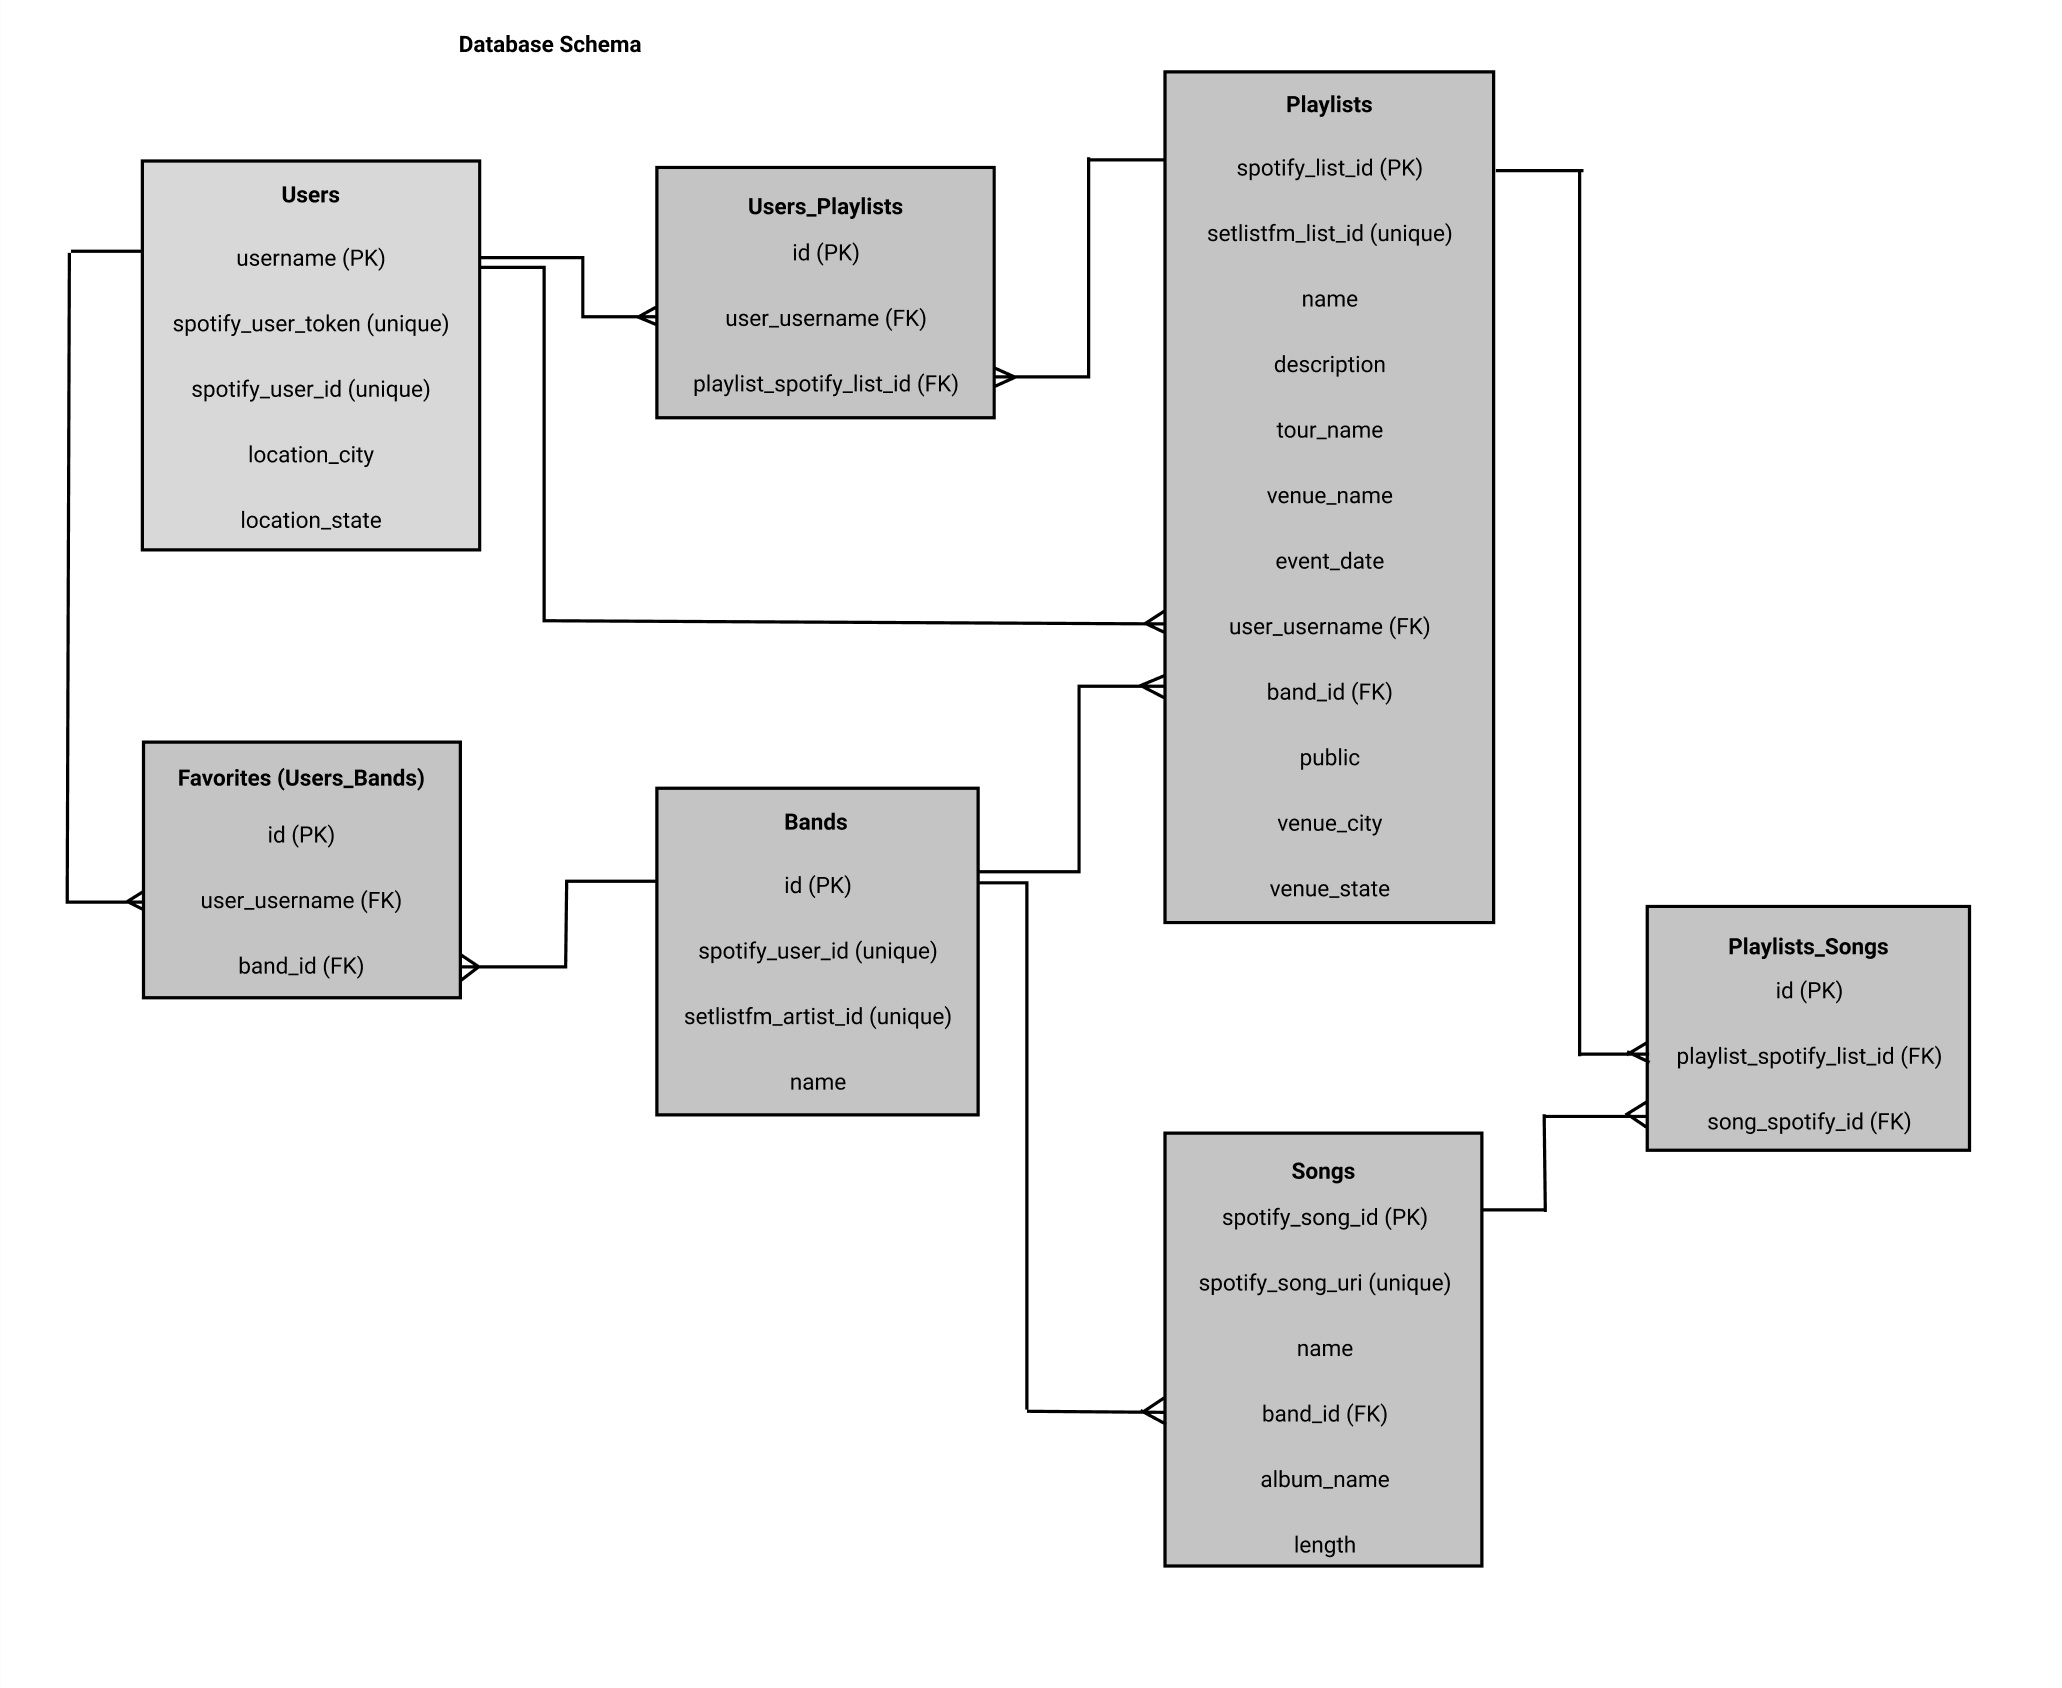
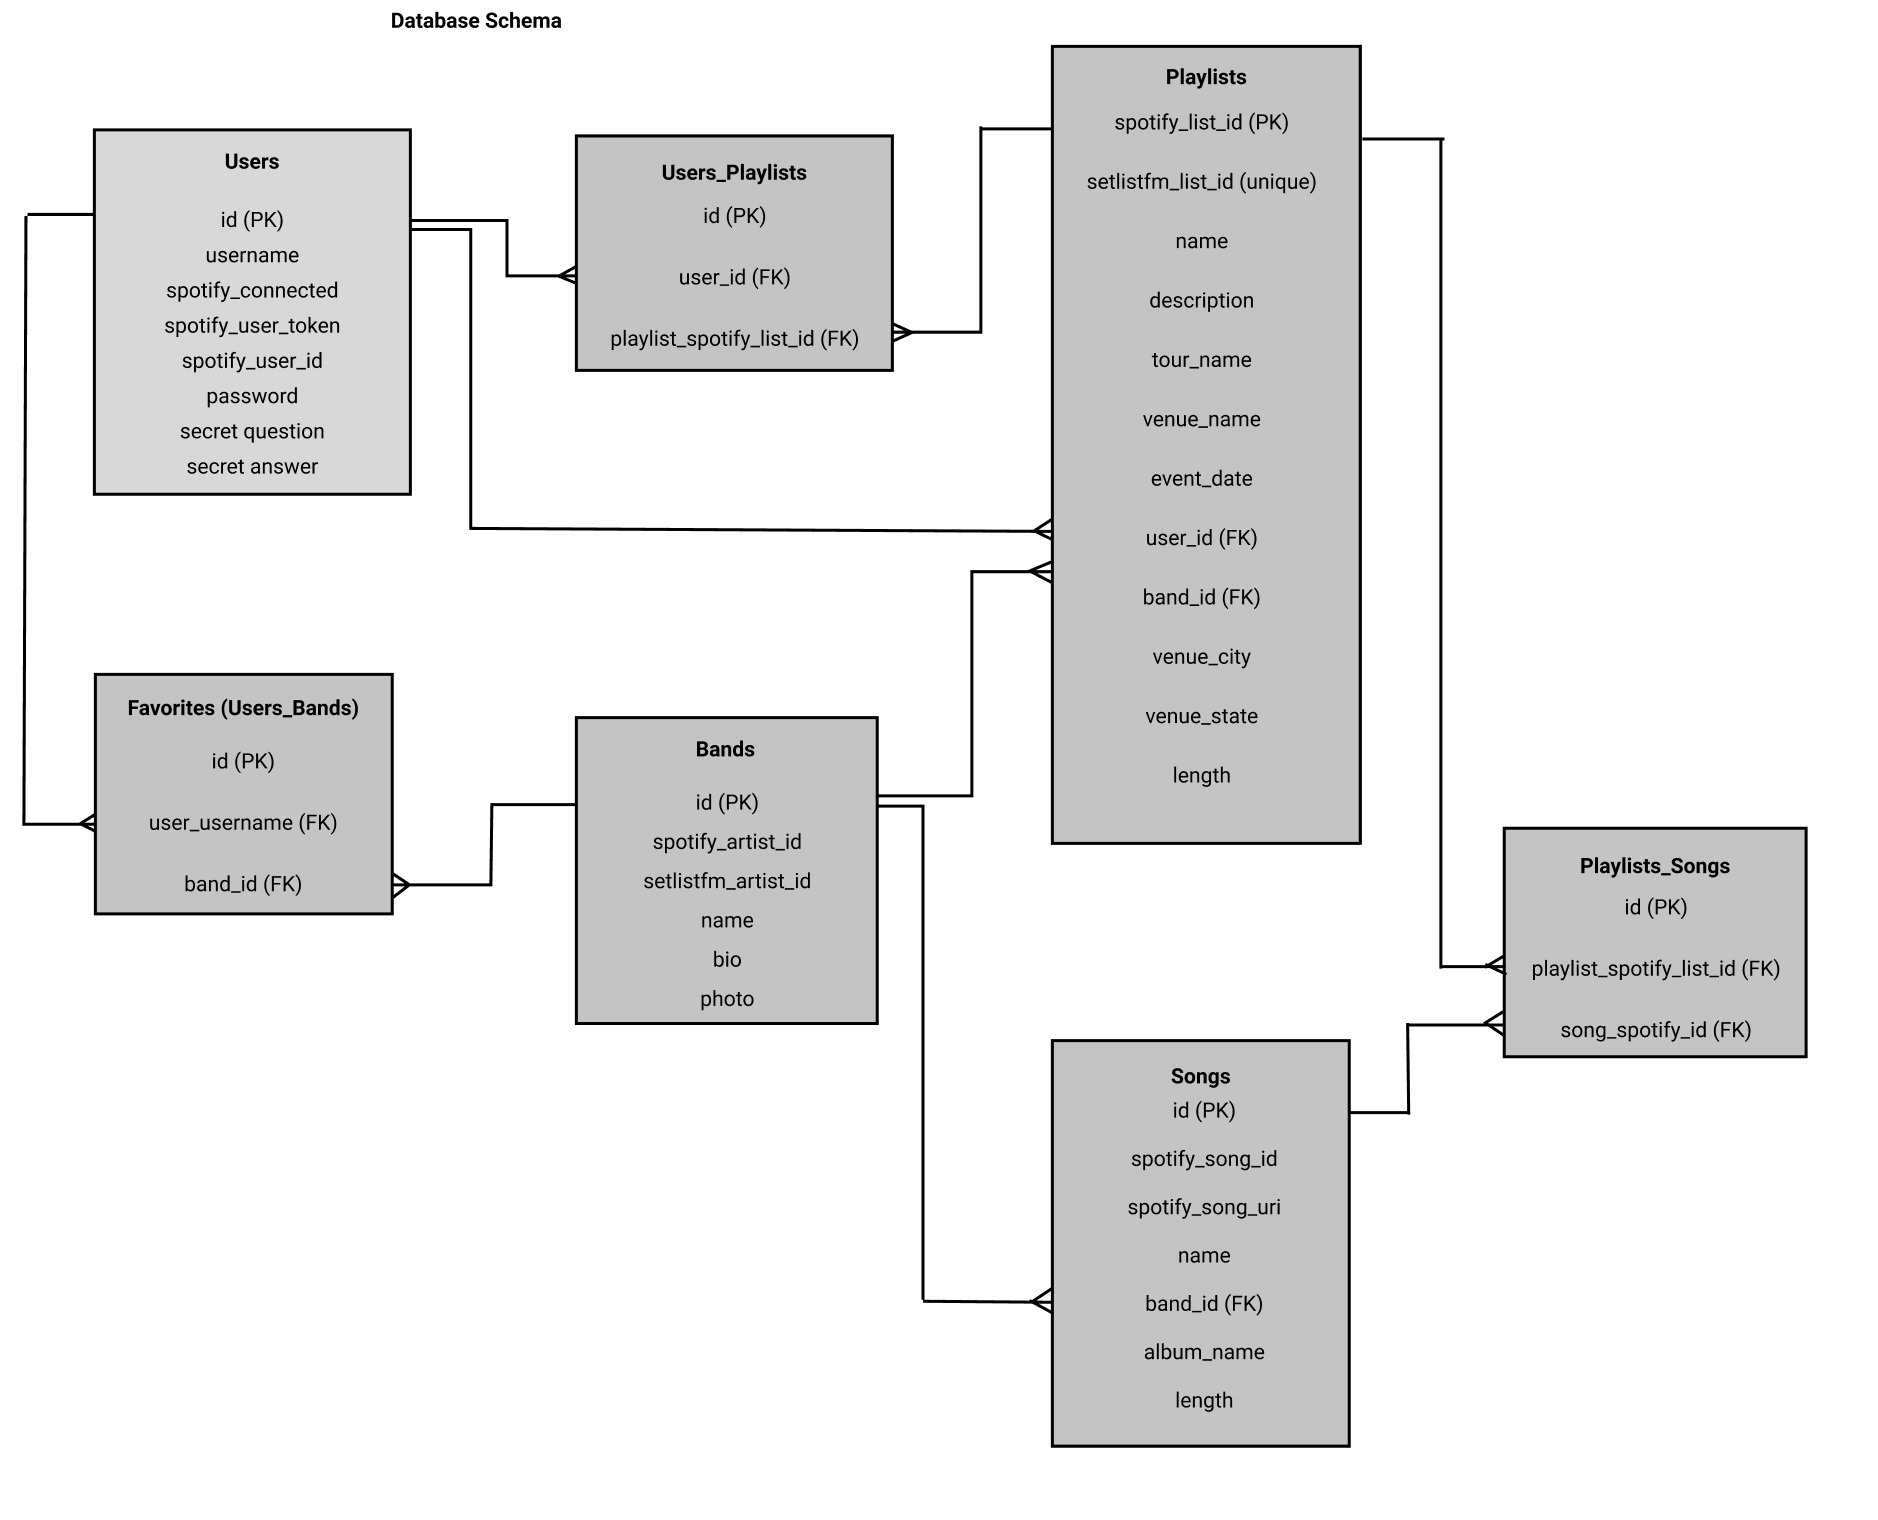
renamed file structure, added app, env, models, forms

diff --git a/SetPlaylist/models.py b/SetPlaylist/models.py
@@ -1,0 +1,149 @@
+from flask_bcrypt import Bcrypt
+from flask_sqlalchemy import SQLAlchemy
+
+bcrypt = Bcrypt()
+db = SQLAlchemy()
+
+# TODO: Add relationships
+# TODO: Add joins
+
+
+class User(db.Model):
+    """
+    User Model
+    """
+
+    __tablename__ = 'users'
+
+    id = db.Column(db.Integer, primary_key=True)
+
+    username = db.Column(db.Text, nullable=False, unique=True)
+
+    password = db.Column(db.Text, nullable=False)
+
+    secret_question = db.Column(db.Text, nullable=False)
+
+    secret_answer = db.Column(db.Text, nullable=False)
+
+    spotify_connected = db.Column(db.Boolean, nullable=False)
+
+    spotify_user_token = db.Column(db.Text, default=None)
+
+    spotify_user_id = db.Column(db.Text, default=None)
+
+    def __repr__(self):
+        """
+        A more readable representation of the instance
+        """
+        return f"<User id={self.id} username={self.username} spotify_connected={self.spotify_connected}>"
+
+    @classmethod
+    def register(cls, username, password, secret_question, secret_answer, spotify_connected, spotify_user_token, spotify_user_id):
+        """
+        - Sign up user
+        - Hash password and add user to system
+        """
+        hashed_pwd = bcrypt.generate_password_hash(password).decode('UTF-8')
+
+        user = User(username=username, password=hashed_pwd, secret_question=secret_question, secret_answer=secret_answer,
+                    spotify_connected=spotify_connected, spotify_user_token=spotify_user_token, spotify_user_id=spotify_user_id)
+
+        db.session.add(user)
+        return user
+
+    @classmethod
+    def authenticate(cls, username, password):
+        """
+        - Find user with username and password
+        - If user - return user
+        - If !user - return False
+        """
+        user = cls.query.filter_by(username=username).first()
+
+        if user:
+            is_auth = bcrypt.check_password_hash(user.password, password)
+            if is_auth:
+                return user
+        return False
+
+
+class Playlist(db.Model):
+    """
+    Playlist Model
+    """
+
+    __tablename__ = 'playlists'
+
+    id = db.Column(db.Integer, primary_key=True)
+
+    spotify_playlist_id = db.Column(db.Text, nullable=False)
+
+    name = db.Column(db.Text, nullable=False)
+
+    description = db.Column(db.Text, nullable=False)
+
+    tour_name = db.Column(db.Text, default=None)
+
+    venue_name = db.Column(db.Text, default=None)
+
+    event_date = db.Column(db.Text, default=None)
+
+    venue_city = db.Column(db.Text, default=None)
+
+    venue_state = db.Column(db.Text, default=None)
+
+    length = db.Column(db.Integer, nullable=False)
+
+    user_id = db.Column(db.Integer, db.ForeignKey('users.id'))
+
+    band_id = db.Column(db.Integer, db.ForeignKey('bands.id'))
+
+
+class Band(db.Model):
+    """
+    Band Model
+    """
+
+    __tablename__ = 'bands'
+
+    id = db.Column(db.Integer, primary_key=True)
+
+    spotify_artist_id = db.Column(db.Text, nullable=False)
+
+    setlistfm_artist_id = db.Column(db.Text, nullable=False)
+
+    name = db.Column(db.Text, nullable=False)
+
+    bio = db.Column(db.Text)
+
+    photo = db.Column(db.Text)
+
+
+class Song(db.Model):
+    """
+    Song Model
+    """
+
+    __tablename__ = 'songs'
+
+    id = db.Column(db.Integer, primary_key=True)
+
+    spotify_song_id = db.Column(db.Text, nullable=False)
+
+    spotify_song_uri = db.Column(db.Text, nullable=False)
+
+    name = db.Column(db.Text, nullable=False)
+
+    album_name = db.Column(db.Text, nullable=False)
+
+    length = db.Column(db.Integer, nullable=False)
+
+    band_id = db.Column(db.Integer, db.ForeignKey('bands.id'))
+
+
+def connect_db(app):
+    """
+    Connect database to Flask
+    """
+    db.app = app
+    db.init_app(app)

diff --git a/SetPlaylist/forms.py b/SetPlaylist/forms.py
@@ -1,0 +1,75 @@
+from flask_wtf import FlaskForm
+from wtforms import StringField, PasswordField
+from wtforms.validators import DataRequired, Length, Email
+
+
+class SearchForm(FlaskForm):
+    """
+    Form for searching bands
+    """
+
+    search = StringField('Search', validators=[DataRequired()])
+
+
+class RegisterForm(FlaskForm):
+    """
+    Form for registering users
+    """
+
+    username = StringField('Username', validators=[DataRequired()])
+    password = PasswordField('Password', validators=[Length(min=8)])
+    email = StringField('Email', validators=[DataRequired(), Email()])
+    secret_question = StringField(
+        'Secret Question', validators=[DataRequired()])
+    secret_answer = StringField('Secret Answer', validators=[DataRequired()])
+
+
+class LoginForm(FlaskForm):
+    """
+    Form for loggin in user
+    """
+
+    username = StringField('Username', validators=[DataRequired()])
+    password = PasswordField('Password', validators=[DataRequired()])
+
+
+class UserEditForm(FlaskForm):
+    """
+    Form for editing user
+    """
+
+    username = StringField('Username', validators=[DataRequired()])
+    email = StringField('Email', validators=[DataRequired(), Email()])
+    new_password = PasswordField('New Password', validators=[Length(min=8)])
+    retype_new_password = PasswordField(
+        'Retype New Password', validators=[Length(min=8)])
+    secret_answer = StringField('Secret Answer', validators=[DataRequired()])
+    current_password = PasswordField(
+        'Enter Current Password To Confirm Changes', validators=[DataRequired()])
+
+
+class ForgotPassUsername(FlaskForm):
+    """
+    Form for resetting password, entering username
+    """
+
+    username = StringField('Username', validators=[DataRequired()])
+
+
+class ForgotPassAnswer(FlaskForm):
+    """
+    Form for resetting password, entering secret answer
+    """
+
+    secret_question = StringField('Secret Question')
+    secret_answer = StringField('Secret Answer', validators=[DataRequired()])
+
+
+class PasswordReset(FlaskForm):
+    """
+    Form for entering new password
+    """
+
+    new_password = StringField('New Password', validators=[Length(min=8)])
+    retype_password = StringField(
+        'Retype New Password', validators=[Length(min=8)])

diff --git a/SetPlaylist/app.py b/SetPlaylist/app.py
@@ -1,0 +1,39 @@
+from dotenv import load_dotenv
+import os
+from flask import Flask, render_template, request, flash, redirect, session, g
+from flask_debugtoolbar import DebugToolbarExtension
+# from sqlalchemy.exc import
+# from forms import
+from models import db, connect_db, User
+
+load_dotenv()
+
+app = Flask(__name__)
+
+
+app.config['SQLALCHEMY_DATABASE_URI'] = os.environ.get(
+    'DATABASE_URI', 'postgres:///setplaylist-test')
+app.config['SQLALCHEMY_TRACK_MODIFICATIONS'] = False
+app.config['SQLALCHEMY_ECHO'] = False
+app.config['DEBUG_TB_INTERCEPT_REDIRECTS'] = True
+app.config['SECRET_KEY'] = os.environ.get('SECRET_KEY', 'secret!')
+
+CURR_USER_KEY = os.environ.get('CURR_USER_KEY')
+
+toolbar = DebugToolbarExtension(app)
+
+connect_db(app)
+
+################################################################################
+
+
+@app.before_request
+def add_user_to_g():
+    """
+    If user logged in, add to Flask global
+    """
+
+    if CURR_USER_KEY in session:
+        g.user = User.query.get(session[CURR_USER_KEY])
+    else:
+        g.user = None
